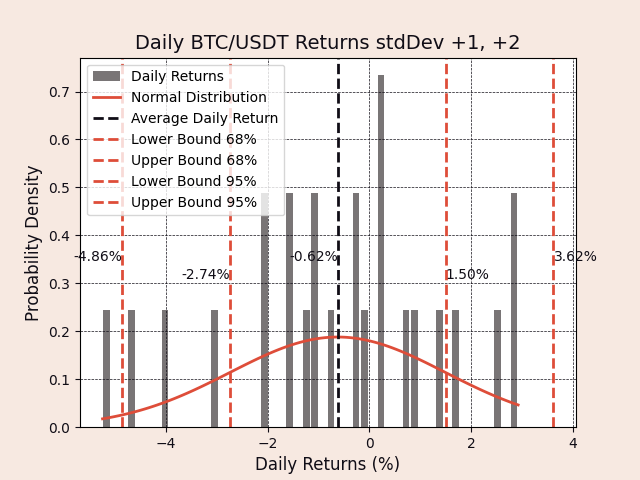
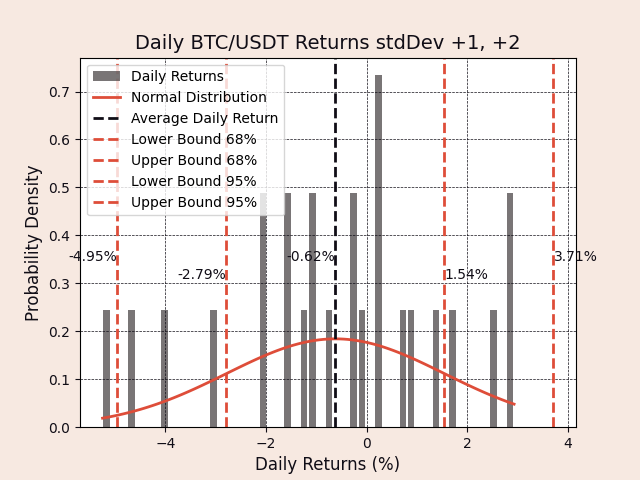
corrects stdDev values

diff --git a/Issue 2 - stdDev & Sharpe Ratio/calculate_stdDev_and_SR.py b/Issue 2 - stdDev & Sharpe Ratio/calculate_stdDev_and_SR.py
@@ -18,7 +18,13 @@ df = read_ohlcv_from_csv(filepath)
 df.sort_values(by='timestamp', inplace=True)
 
 daily_returns = df['close'].pct_change().dropna()
-std_dev = np.std(daily_returns)
+std_dev = daily_returns.std()
+
+print(f'stdDev: {std_dev}')
+print(f'stdDev%: {std_dev*100: .2f}%')
+print('')
+# stdDev: 0.021213963635739217
+# stdDev%:  2.12%
 
 
 # Plotting the return series as histogram
@@ -33,12 +39,6 @@ plt.ylabel('Daily Returns')
 plt.title('Daily Returns Over Time')
 plt.savefig('return_series_histogram.png')
 
-
-print(f'stdDev: {std_dev}')
-print(f'stdDev%: {std_dev*100: .2f}%')
-print('')
-# stdDev: 0.021213963635739217
-# stdDev%:  2.12%
 
 average_daily_return = daily_returns.mean()
 print(f'Avg daily return {average_daily_return}')
@@ -60,13 +60,13 @@ print('')
 
 lower_bound_95 = average_daily_return - std_dev * 2
 upper_bound_95 = average_daily_return + std_dev * 2
-print(f'Within 1 stdDev (68% probability):')
+print(f'Within 2 stdDev (95% probability):')
 print(f'μ - 2σ: {lower_bound_95*100: .2f}%')
 print(f'μ + 2σ: {upper_bound_95*100: .2f}%')
 print('')
-# Within 1 stdDev (68% probability):
-# μ - 2σ: -4.86%
-# μ + 2σ:  3.62%
+# Within 2 stdDev (95% probability):
+# μ - 2σ: -4.95%
+# μ + 2σ:  3.71%
 
 
 plt.figure(facecolor='#f7e9e1')
